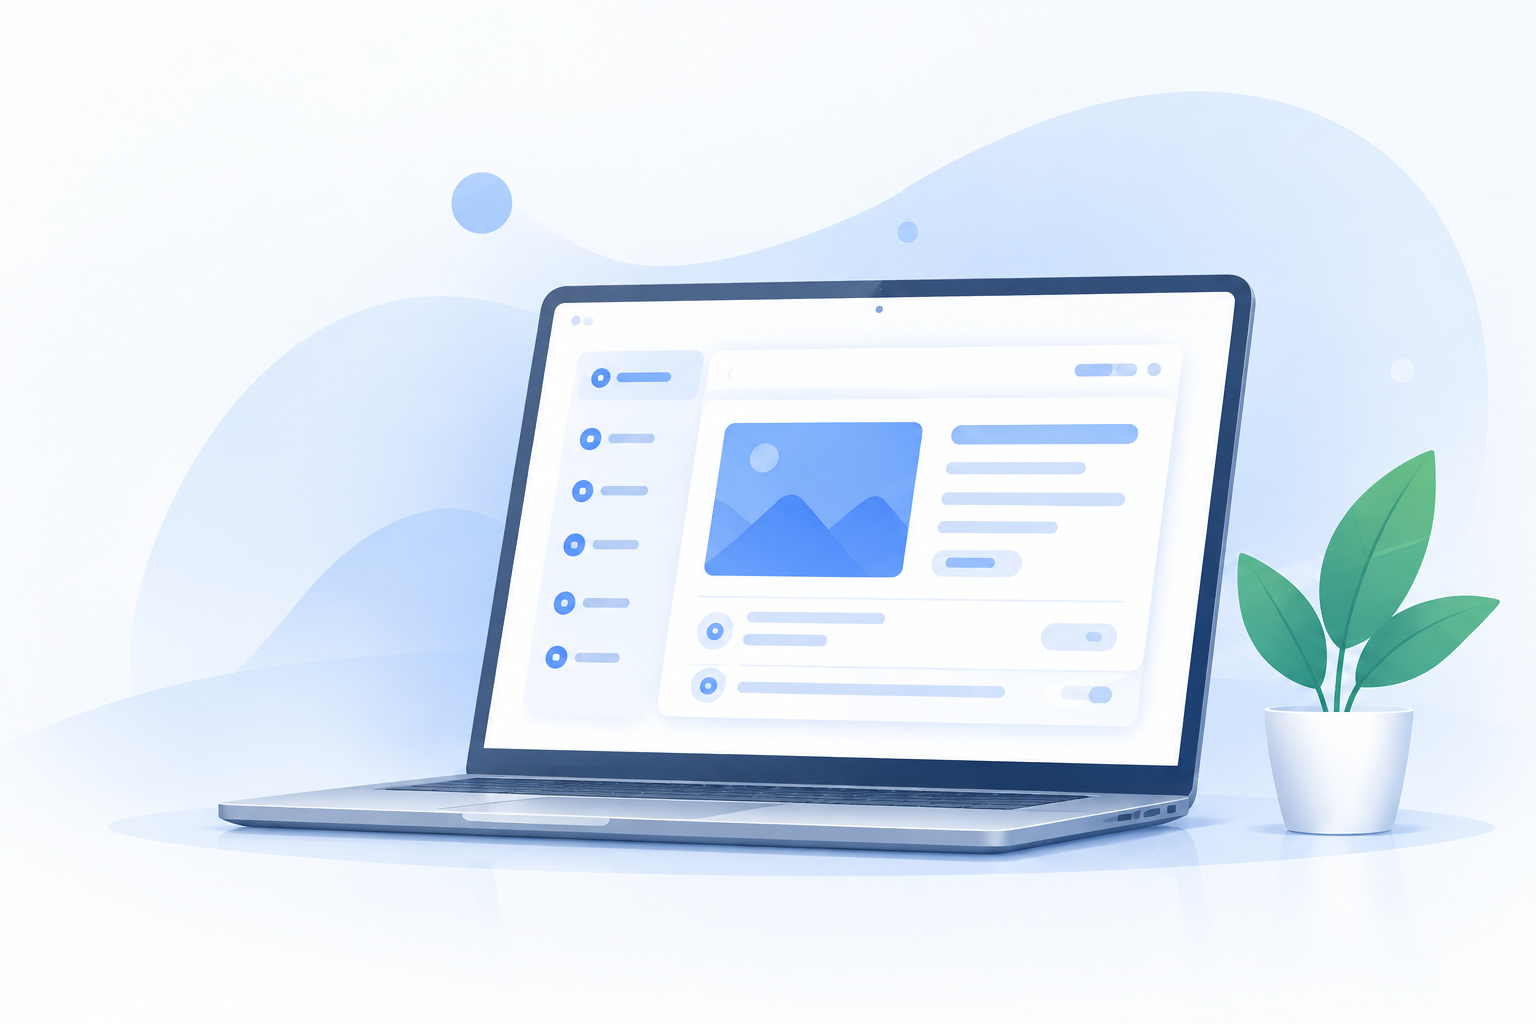
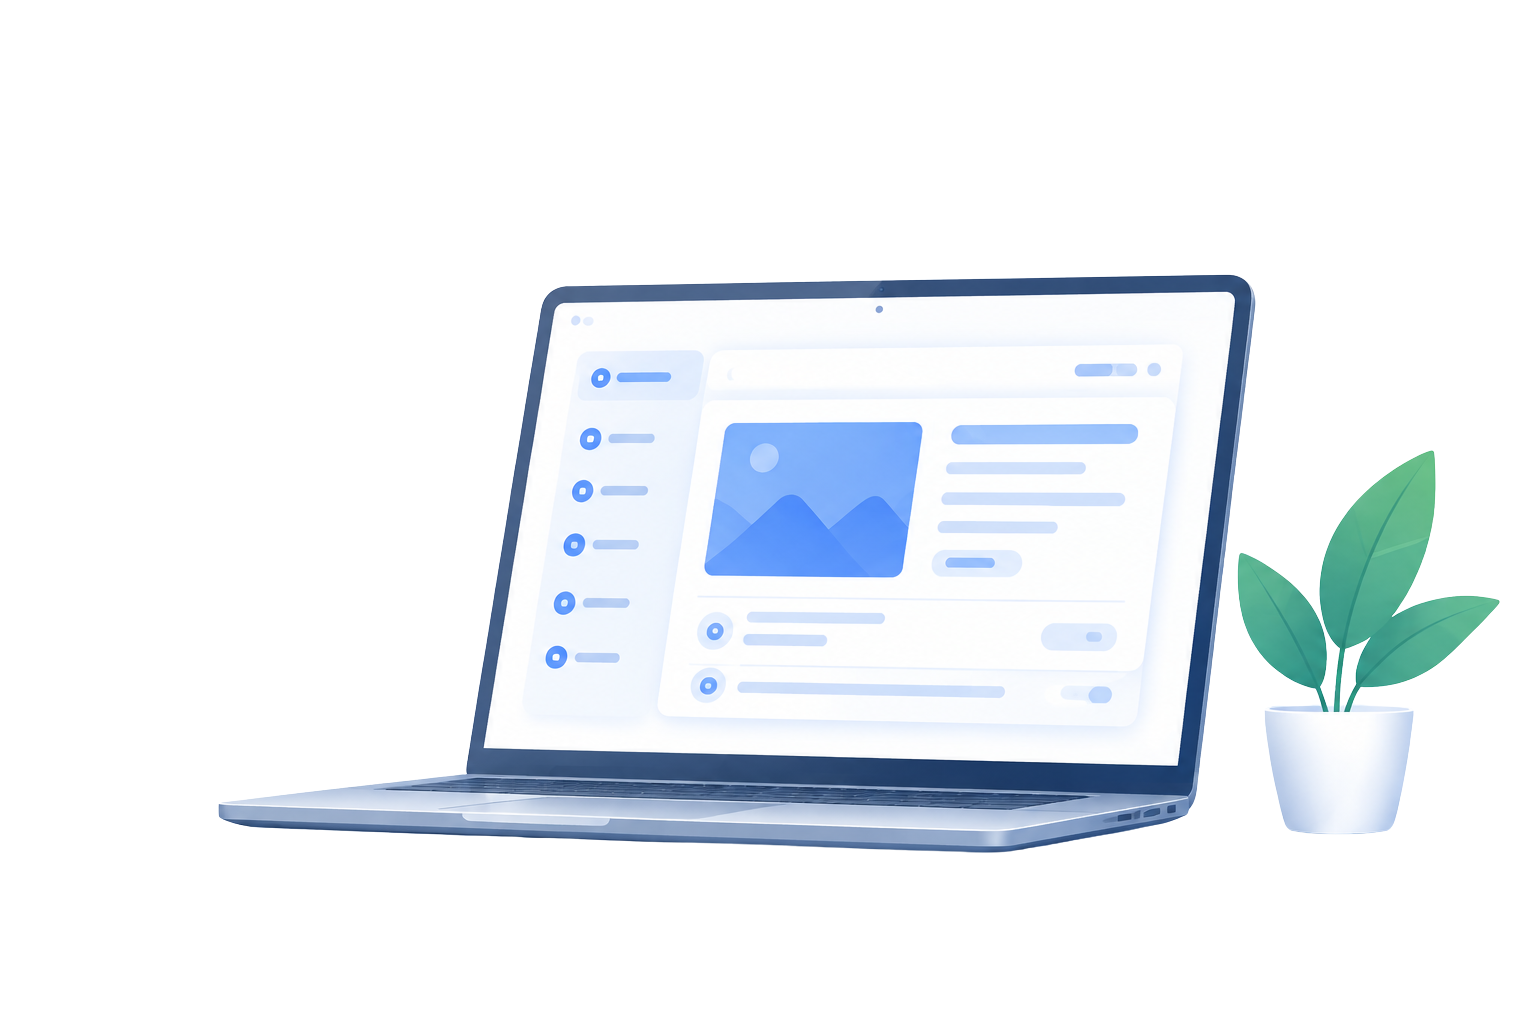
feat: build dashboard UI with dummy data

Changed region(s): [[0.0625, 0.0625, 0.9688, 0.875], [0.2812, 0.1562, 0.3438, 0.25]]

diff --git a/src/app/(member)/member/dashboard/page.js b/src/app/(member)/member/dashboard/page.js
@@ -1,17 +1,334 @@
+import Image from "next/image";
+import Link from "next/link";
+import {
+  ArrowRight,
+  Bell,
+  ChevronDown,
+  KeyRound,
+  Package,
+  UserRound,
+} from "lucide-react";
+
+const dashboardStats = [
+  {
+    title: "Active Products",
+    value: "2",
+    description: "Out of 5 total products",
+    icon: Package,
+    iconClassName: "bg-blue-50 text-blue-600",
+  },
+  {
+    title: "Available Access",
+    value: "2",
+    description: "You have access to 2 products",
+    icon: KeyRound,
+    iconClassName: "bg-emerald-50 text-emerald-500",
+  },
+  {
+    title: "Account Status",
+    value: "Active",
+    description: "Your account is in good standing",
+    icon: UserRound,
+    iconClassName: "bg-violet-50 text-violet-500",
+  },
+];
+
+const ownedProducts = [
+  {
+    name: "Product A",
+    description: "Get access to premium resources and exclusive content.",
+    status: "Active",
+    image: "/images/laptop2.png",
+    action: "Open Product",
+  },
+  {
+    name: "Product B",
+    description: "Access premium content and exclusive resources.",
+    status: "Active",
+    image: "/images/laptop3.png",
+    action: "Open Product",
+  },
+];
+
+const recommendedProducts = [
+  {
+    name: "Product C",
+    description: "Expand your knowledge with practical resources.",
+    price: "Rp75.000",
+    image: "/images/bgeffect2.png",
+    action: "View Details",
+  },
+  {
+    name: "Product D",
+    description: "Discover more resources designed to help you grow.",
+    price: "Rp100.000",
+    image: "/images/bgeffect3.png",
+    action: "View Details",
+  },
+  {
+    name: "Product E",
+    description: "Get access to exclusive learning materials.",
+    price: "Rp125.000",
+    image: "/images/bgeffect4.png",
+    action: "View Details",
+  },
+];
+
+function ArvishaLogo() {
+  return (
+    <Image
+      src="/images/logotext horizontal.png"
+      alt="Arvisha"
+      width={2172}
+      height={724}
+      priority
+      sizes="(max-width: 639px) 130px, 146px"
+      className="h-auto w-[130px] object-contain object-left sm:w-[146px]"
+    />
+  );
+}
+
+function StatCard({ title, value, description, icon: Icon, iconClassName }) {
+  return (
+    <article className="flex items-center gap-4 rounded-2xl border border-blue-100/70 bg-white p-5 shadow-[0_10px_30px_rgba(50,103,172,0.07)] sm:p-6">
+      <div className={`flex h-14 w-14 shrink-0 items-center justify-center rounded-full ${iconClassName}`}>
+        <Icon size={27} strokeWidth={1.8} aria-hidden="true" />
+      </div>
+      <div className="min-w-0 flex-1">
+        <p className="text-sm font-medium text-[#53709f]">{title}</p>
+        <p className="mt-1 text-2xl font-semibold tracking-[-0.03em] text-[#142447]">{value}</p>
+        <p className="mt-1 text-xs leading-5 text-[#7890b5]">{description}</p>
+      </div>
+      <ArrowRight className="hidden shrink-0 text-[#7899ca] sm:block" size={18} aria-hidden="true" />
+    </article>
+  );
+}
+
+function ProductCard({ product, owned = false }) {
+  return (
+    <article className="overflow-hidden rounded-2xl border border-blue-100/80 bg-white shadow-[0_10px_30px_rgba(50,103,172,0.05)] transition hover:-translate-y-0.5 hover:shadow-[0_14px_34px_rgba(50,103,172,0.1)]">
+      <div className="relative h-36 overflow-hidden bg-[#edf5ff] sm:h-40">
+        <Image
+          src={product.image}
+          alt=""
+          fill
+          sizes="(max-width: 767px) 100vw, (max-width: 1279px) 50vw, 33vw"
+          className={owned ? "object-cover" : "object-cover opacity-90"}
+        />
+        <div className="absolute inset-0 bg-gradient-to-t from-white/25 to-transparent" />
+        <span className="absolute bottom-3 left-4 inline-flex items-center gap-1.5 rounded-full bg-white/95 px-3 py-1 text-xs font-semibold text-[#4f6d9e] shadow-sm">
+          {owned ? (
+            <>
+              <span className="h-2 w-2 rounded-full bg-emerald-400" aria-hidden="true" />
+              {product.status}
+            </>
+          ) : (
+            <>
+              <span className="h-2 w-2 rounded-full bg-blue-400" aria-hidden="true" />
+              Available
+            </>
+          )}
+        </span>
+      </div>
+      <div className="p-5 sm:p-6">
+        <div className="flex items-start justify-between gap-3">
+          <h3 className="text-lg font-semibold tracking-[-0.02em] text-[#142447]">{product.name}</h3>
+          {!owned && <span className="text-sm font-semibold text-blue-600">{product.price}</span>}
+        </div>
+        <p className="mt-2 min-h-12 text-sm leading-6 text-[#6f87ad]">{product.description}</p>
+        <button
+          type="button"
+          className={`mt-5 flex w-full items-center justify-center gap-2 rounded-lg px-4 py-2.5 text-sm font-semibold transition focus:outline-none focus-visible:ring-2 focus-visible:ring-blue-500 focus-visible:ring-offset-2 ${
+            owned
+              ? "bg-blue-50 text-blue-600 hover:bg-blue-100"
+              : "border border-blue-200 text-blue-600 hover:bg-blue-50"
+          }`}
+        >
+          {product.action}
+          <ArrowRight size={16} aria-hidden="true" />
+        </button>
+      </div>
+    </article>
+  );
+}
+
+function SectionHeading({ title, description, href = "/member/products" }) {
+  return (
+    <div className="flex flex-col gap-3 sm:flex-row sm:items-end sm:justify-between">
+      <div>
+        <h2 className="text-xl font-semibold tracking-[-0.025em] text-[#142447] sm:text-2xl">{title}</h2>
+        <p className="mt-1 text-sm text-[#6f87ad]">{description}</p>
+      </div>
+      <Link
+        href={href}
+        className="inline-flex w-fit items-center gap-2 text-sm font-semibold text-blue-600 transition hover:text-blue-700 focus:outline-none focus-visible:ring-2 focus-visible:ring-blue-500 focus-visible:ring-offset-4"
+      >
+        View all products
+        <ArrowRight size={16} aria-hidden="true" />
+      </Link>
+    </div>
+  );
+}
+
+function DashboardHeader() {
+  return (
+    <header className="border-b border-blue-100/70 bg-white/95 backdrop-blur">
+      <div className="mx-auto flex h-[72px] max-w-[1376px] items-center justify-between px-5 sm:px-8 lg:px-10 xl:px-12">
+        <div className="flex min-w-0 items-center gap-8 lg:gap-12">
+          <Link href="/member/dashboard" className="shrink-0 focus:outline-none focus-visible:ring-2 focus-visible:ring-blue-500 focus-visible:ring-offset-4">
+            <ArvishaLogo />
+          </Link>
+          <nav className="hidden items-center gap-8 text-sm font-medium text-[#6680aa] md:flex lg:gap-10" aria-label="Main navigation">
+            <Link href="/member/dashboard" className="relative py-7 text-blue-600 after:absolute after:inset-x-0 after:bottom-0 after:h-0.5 after:bg-blue-500">
+              Dashboard
+            </Link>
+            <Link href="/member/products" className="py-7 transition hover:text-blue-600">
+              Products
+            </Link>
+            <a href="#help" className="py-7 transition hover:text-blue-600">
+              Help
+            </a>
+          </nav>
+        </div>
+
+        <div className="flex items-center gap-3 sm:gap-5">
+          <button
+            type="button"
+            aria-label="Notifications"
+            className="relative rounded-full p-2 text-[#6f87ad] transition hover:bg-blue-50 hover:text-blue-600 focus:outline-none focus-visible:ring-2 focus-visible:ring-blue-500"
+          >
+            <Bell size={20} strokeWidth={1.8} aria-hidden="true" />
+            <span className="absolute right-1.5 top-1.5 h-1.5 w-1.5 rounded-full bg-blue-500" aria-hidden="true" />
+          </button>
+          <div className="hidden h-7 w-px bg-blue-100 sm:block" aria-hidden="true" />
+          <button
+            type="button"
+            aria-label="Open account menu"
+            aria-expanded="false"
+            className="hidden items-center gap-2 rounded-lg px-2 py-2 text-sm font-medium text-[#395782] transition hover:bg-blue-50 focus:outline-none focus-visible:ring-2 focus-visible:ring-blue-500 sm:flex"
+          >
+            Natasya Desinta
+            <ChevronDown size={16} aria-hidden="true" />
+          </button>
+          <form action="/auth/signout" method="post">
+            <button
+              type="submit"
+              className="rounded-lg border border-blue-200 px-3 py-2 text-xs font-semibold text-blue-600 transition hover:bg-blue-50 focus:outline-none focus-visible:ring-2 focus-visible:ring-blue-500 focus-visible:ring-offset-2 sm:px-4 sm:text-sm"
+            >
+              Logout
+            </button>
+          </form>
+        </div>
+      </div>
+    </header>
+  );
+}
+
 export default function MemberDashboardPage() {
   return (
-    <main className="flex min-h-screen items-center justify-center p-6">
-      <div className="flex flex-col items-stretch gap-4 sm:flex-row sm:items-center">
-        <p>Member dashboard placeholder</p>
-        <form action="/auth/signout" method="post">
-          <button
-            type="submit"
-            className="w-full rounded-lg bg-slate-900 px-4 py-2 text-sm font-medium text-white transition hover:bg-slate-700 focus:outline-none focus-visible:ring-2 focus-visible:ring-slate-900 focus-visible:ring-offset-2 sm:w-auto"
-          >
-            Logout
-          </button>
-        </form>
-      </div>
-    </main>
+    <div className="min-h-screen bg-[#f7fbff] text-[#142447]">
+      <DashboardHeader />
+
+      <main>
+        <section className="relative overflow-hidden">
+          <Image
+            src="/images/bgeffect.png"
+            alt=""
+            fill
+            priority
+            sizes="100vw"
+            className="pointer-events-none object-cover object-center opacity-80"
+          />
+          <div className="relative mx-auto grid max-w-[1376px] items-center gap-8 px-5 pb-8 pt-10 sm:px-8 sm:pt-14 lg:grid-cols-[0.8fr_1.2fr] lg:px-10 lg:pb-10 lg:pt-16 xl:px-12">
+            <div className="max-w-xl">
+              <div className="inline-flex items-center gap-2 rounded-full bg-blue-100/80 px-3 py-1.5 text-xs font-semibold text-blue-600 shadow-sm shadow-blue-100">
+                <UserRound size={14} strokeWidth={2} aria-hidden="true" />
+                Member Area
+              </div>
+              <h1 className="mt-5 text-4xl font-semibold leading-[1.08] tracking-[-0.05em] text-[#142447] sm:text-5xl lg:text-[3.25rem]">
+                Hi Natasya,
+                <br />
+                <span className="font-normal">Welcome back!</span>
+              </h1>
+              <p className="mt-5 max-w-md text-base leading-7 text-[#6f87ad]">
+                Manage your products, access your content,
+                <br className="hidden sm:block" /> and keep track of your account — all in one place.
+              </p>
+              <Link
+                href="/member/products"
+                className="mt-7 inline-flex items-center gap-3 rounded-full bg-blue-600 px-7 py-3 text-sm font-semibold text-white shadow-[0_10px_22px_rgba(37,99,235,0.2)] transition hover:bg-blue-700 focus:outline-none focus-visible:ring-2 focus-visible:ring-blue-500 focus-visible:ring-offset-2"
+              >
+                Explore Products
+                <ArrowRight size={18} aria-hidden="true" />
+              </Link>
+            </div>
+            <div className="relative mx-auto h-56 w-full max-w-[650px] sm:h-72 lg:h-80 xl:h-96">
+              <Image
+                src="/images/laptop3.png"
+                alt="Arvisha dashboard preview"
+                fill
+                priority
+                sizes="(max-width: 1023px) 92vw, (max-width: 1279px) 54vw, 650px"
+                className="object-contain object-center"
+              />
+            </div>
+          </div>
+        </section>
+
+        <div className="mx-auto max-w-[1376px] space-y-10 px-5 pb-14 sm:px-8 lg:px-10 xl:px-12">
+          <section aria-label="Account summary" className="grid gap-4 md:grid-cols-3">
+            {dashboardStats.map((stat) => (
+              <StatCard key={stat.title} {...stat} />
+            ))}
+          </section>
+
+          <section className="rounded-3xl border border-blue-100/70 bg-white p-5 shadow-[0_10px_32px_rgba(50,103,172,0.05)] sm:p-7 lg:p-8">
+            <SectionHeading
+              title="Your Products"
+              description="Access your purchased products and manage your content."
+            />
+            <div className="mt-7 grid gap-5 md:grid-cols-2">
+              {ownedProducts.map((product) => (
+                <ProductCard key={product.name} product={product} owned />
+              ))}
+            </div>
+          </section>
+
+          <section id="help" className="rounded-3xl border border-blue-100/70 bg-white p-5 shadow-[0_10px_32px_rgba(50,103,172,0.05)] sm:p-7 lg:p-8">
+            <SectionHeading
+              title="Recommended for You"
+              description="Explore products you haven't purchased yet."
+            />
+            <div className="mt-7 grid gap-5 md:grid-cols-2 xl:grid-cols-3">
+              {recommendedProducts.map((product) => (
+                <ProductCard key={product.name} product={product} />
+              ))}
+            </div>
+          </section>
+        </div>
+      </main>
+
+      <footer className="border-t border-blue-100/70 bg-white">
+        <div className="mx-auto flex max-w-[1376px] flex-col gap-4 px-5 py-6 text-xs text-[#7890b5] sm:flex-row sm:items-center sm:justify-between sm:px-8 lg:px-10 xl:px-12">
+          <div className="flex items-center gap-3">
+            <Image
+              src="/images/logotext horizontal.png"
+              alt="Arvisha"
+              width={2172}
+              height={724}
+              sizes="92px"
+              className="h-auto w-[92px] object-contain object-left"
+            />
+            <span className="h-5 w-px bg-blue-200" aria-hidden="true" />
+            <span>© 2025 Arvisha. All rights reserved.</span>
+          </div>
+          <nav className="flex flex-wrap gap-x-6 gap-y-2" aria-label="Footer navigation">
+            <a href="#terms" className="transition hover:text-blue-600">Terms of Service</a>
+            <a href="#privacy" className="transition hover:text-blue-600">Privacy Policy</a>
+            <a href="#help" className="transition hover:text-blue-600">Help</a>
+          </nav>
+        </div>
+      </footer>
+    </div>
   );
 }
